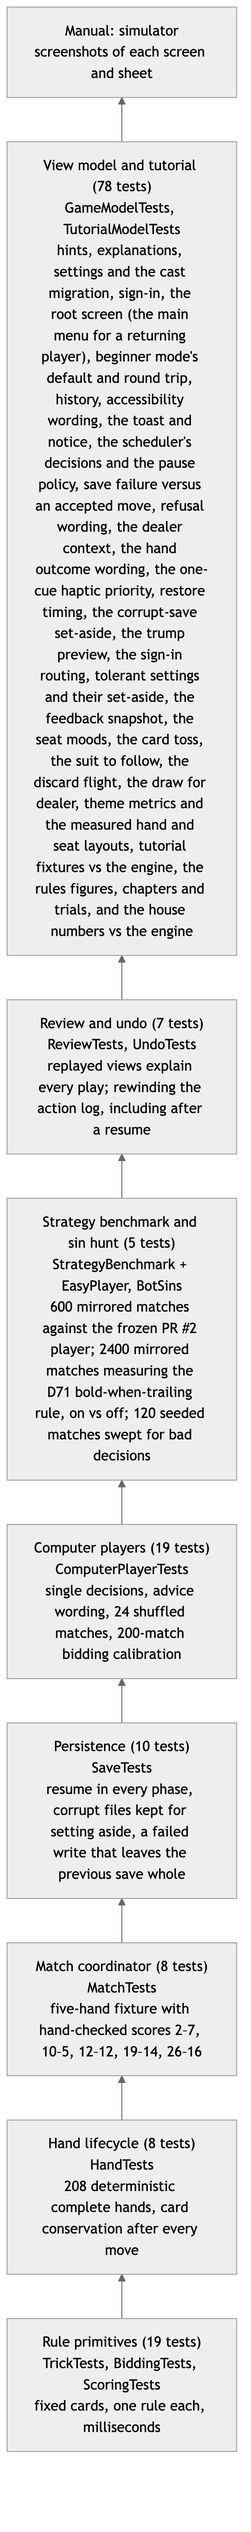
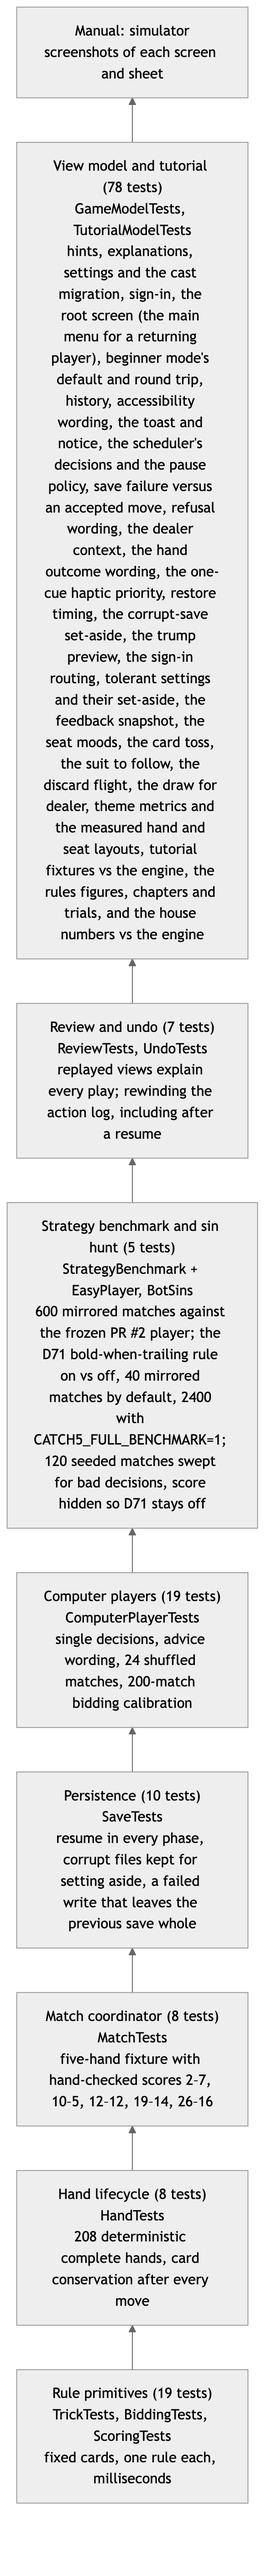
test(engine): hunt sins with score hidden, gate full bold benchmark
Claude-Session: https://claude.ai/code/session_01QN6TzWW52H8G3srazr3P6X

diff --git a/Tests/CatchFiveTests/StrategyBenchmark.swift b/Tests/CatchFiveTests/StrategyBenchmark.swift
@@ -1,3 +1,4 @@
+import Foundation
 import Testing
 @testable import CatchFive
 
@@ -87,11 +88,15 @@ struct TrailingContracts {
 
 /// D71 is a character rule, not a strength tune: this records what bidding one step bolder when down 10
 /// does against the same strategy without it, and holds nothing to a bar beyond the harness being whole.
+/// By default it plays a 40-match sample so `swift test` stays quick; `CATCH5_FULL_BENCHMARK=1` plays the
+/// 2400 matches D71 reports.
 @Test func boldWhenTrailingIsMeasuredAgainstTheSameStrategyWithoutIt() throws {
+    let full = ProcessInfo.processInfo.environment["CATCH5_FULL_BENCHMARK"] == "1"
+    let ranges = full ? [1..<601, 601..<1201] : [1..<21]
     let off: Strategy = { ComputerPlayer.decide(withoutScores($0)) }
     var lines = ["D71, rule on vs off, mirrored:"]
     var total = BenchmarkResult(), onTrailing = TrailingContracts(), offTrailing = TrailingContracts()
-    for seeds in [1..<601, 601..<1201] {
+    for seeds in ranges {
         var result = BenchmarkResult(), on = TrailingContracts(), without = TrailingContracts()
         for seed in seeds {
             let first = try playSeededMatch(seed: seed, teamZero: ComputerPlayer.decide, teamOne: off)
@@ -109,6 +114,6 @@ struct TrailingContracts {
     }
     lines.append("  all: \(total.matches) matches, on wins \(total.candidateWinRate), margin \(total.marginPerMatch); down 10+ made: on \(onTrailing.rate) of \(onTrailing.bid), off \(offTrailing.rate) of \(offTrailing.bid)")
     print(lines.joined(separator: "\n"))
-    #expect(total.matches == 2400)
+    #expect(total.matches == ranges.reduce(0) { $0 + 2 * $1.count })
     #expect(onTrailing.bid > 0 && offTrailing.bid > 0)
 }

diff --git a/Tests/CatchFiveTests/BotSins.swift b/Tests/CatchFiveTests/BotSins.swift
@@ -98,7 +98,9 @@ func huntBotSins(seeds: Range<Int>) throws -> [BotSin] {
                 continue
             }
             guard let seat = match.hand.nextSeat,
-                  let action = try ComputerPlayer.decide(PlayerView(match: match, seat: seat)) else { break }
+                  // Score hidden, so the D71 bold-when-trailing rule stays off and the seeded matches are the
+                  // ones these ceilings were set on: the hunt measures card play, which D71 did not change.
+                  let action = try ComputerPlayer.decide(withoutScores(PlayerView(match: match, seat: seat))) else { break }
 
             // Capture what the seat could see before the card leaves its hand.
             if case let .play(card) = action, let trump = match.hand.trump {
@@ -298,11 +300,9 @@ private func setSins(_ summary: HandSummary, seed: Int) -> [BotSin] {
     #expect(counters.count <= 19, "regression: \(counters.count) counters thrown away")
 
     // Tens and low trumps have their own floors, kept apart because they are worth different points.
-    // They rose from 12 and 17 when a team down 10 started bidding one step bolder (D71): the card
-    // play is unchanged, but the matches it plays are different ones, with more stretched contracts.
     let all = try huntBotSins(seeds: 1..<121)
-    #expect(all.filter { $0.kind == .surrenderedATen }.count <= 15)
-    #expect(all.filter { $0.kind == .surrenderedTheLow }.count <= 18)
+    #expect(all.filter { $0.kind == .surrenderedATen }.count <= 12)
+    #expect(all.filter { $0.kind == .surrenderedTheLow }.count <= 17)
 }
 
 @Test func theHouseBidLadderReadsAHandTheWayConnorsTableDoes() {

diff --git a/App/Explainer/docs/testing.md b/App/Explainer/docs/testing.md
@@ -44,14 +44,20 @@ flowchart BT
     L3["Match coordinator (8 tests)<br/>MatchTests<br/>five-hand fixture with hand-checked scores 2–7, 10–5, 12–12, 19–14, 26–16"]
     L4["Persistence (10 tests)<br/>SaveTests<br/>resume in every phase, corrupt files kept for setting aside, a failed write that leaves the previous save whole"]
     L5["Computer players (19 tests)<br/>ComputerPlayerTests<br/>single decisions, advice wording, 24 shuffled matches, 200-match bidding calibration"]
-    L5b["Strategy benchmark and sin hunt (5 tests)<br/>StrategyBenchmark + EasyPlayer, BotSins<br/>600 mirrored matches against the frozen PR #2 player; 2400 mirrored matches measuring the D71 bold-when-trailing rule, on vs off; 120 seeded matches swept for bad decisions"]
+    L5b["Strategy benchmark and sin hunt (5 tests)<br/>StrategyBenchmark + EasyPlayer, BotSins<br/>600 mirrored matches against the frozen PR #2 player; the D71 bold-when-trailing rule on vs off, 40 mirrored matches by default, 2400 with CATCH5_FULL_BENCHMARK=1; 120 seeded matches swept for bad decisions, score hidden so D71 stays off"]
     L5c["Review and undo (7 tests)<br/>ReviewTests, UndoTests<br/>replayed views explain every play; rewinding the action log, including after a resume"]
     L6["View model and tutorial (78 tests)<br/>GameModelTests, TutorialModelTests<br/>hints, explanations, settings and the cast migration, sign-in, the root screen (the main menu for a returning player), beginner mode's default and round trip, history, accessibility wording, the toast and notice, the scheduler's decisions and the pause policy, save failure versus an accepted move, refusal wording, the dealer context, the hand outcome wording, the one-cue haptic priority, restore timing, the corrupt-save set-aside, the trump preview, the sign-in routing, tolerant settings and their set-aside, the feedback snapshot, the seat moods, the card toss, the suit to follow, the discard flight, the draw for dealer, theme metrics and the measured hand and seat layouts, tutorial fixtures vs the engine, the rules figures, chapters and trials, and the house numbers vs the engine"]
     L7["Manual: simulator<br/>screenshots of each screen and sheet"]
     L1 --> L2 --> L3 --> L4 --> L5 --> L5b --> L5c --> L6 --> L7
 ```
 
-Total on 2026-09-27: 195 automated tests (83 engine, 112 view model), about 20 s; the D71 measurement (2400 mirrored matches) is most of that. The per-layer counts above are older and not recounted. Every layer above the first uses the real code beneath it; nothing is mocked. If `trickWinner` broke, the failure would show up in one small trick test *and* in the 208-hand simulation, and the small one tells you exactly what changed.
+Total on 2026-09-27: 195 automated tests (83 engine, 112 view model), about 3.5 s. The per-layer counts above are older and not recounted.
+
+The D71 measurement plays a 40-match sample by default. The full 2400 mirrored matches whose numbers D71 records take about 18 s more:
+
+```bash
+CATCH5_FULL_BENCHMARK=1 DEVELOPER_DIR=/Applications/Xcode.app/Contents/Developer swift test --filter boldWhenTrailing
+``` Every layer above the first uses the real code beneath it; nothing is mocked. If `trickWinner` broke, the failure would show up in one small trick test *and* in the 208-hand simulation, and the small one tells you exactly what changed.
 
 The cast, login and menu are covered at the model layer: `Settings` migration and round trip, `matchInProgress`, `signIn` and `seatSummary`; the screens themselves are checked by the simulator screenshot pass.
 

diff --git a/docs/testing.md b/docs/testing.md
@@ -44,14 +44,20 @@ flowchart BT
     L3["Match coordinator (8 tests)<br/>MatchTests<br/>five-hand fixture with hand-checked scores 2–7, 10–5, 12–12, 19–14, 26–16"]
     L4["Persistence (10 tests)<br/>SaveTests<br/>resume in every phase, corrupt files kept for setting aside, a failed write that leaves the previous save whole"]
     L5["Computer players (19 tests)<br/>ComputerPlayerTests<br/>single decisions, advice wording, 24 shuffled matches, 200-match bidding calibration"]
-    L5b["Strategy benchmark and sin hunt (5 tests)<br/>StrategyBenchmark + EasyPlayer, BotSins<br/>600 mirrored matches against the frozen PR #2 player; 2400 mirrored matches measuring the D71 bold-when-trailing rule, on vs off; 120 seeded matches swept for bad decisions"]
+    L5b["Strategy benchmark and sin hunt (5 tests)<br/>StrategyBenchmark + EasyPlayer, BotSins<br/>600 mirrored matches against the frozen PR #2 player; the D71 bold-when-trailing rule on vs off, 40 mirrored matches by default, 2400 with CATCH5_FULL_BENCHMARK=1; 120 seeded matches swept for bad decisions, score hidden so D71 stays off"]
     L5c["Review and undo (7 tests)<br/>ReviewTests, UndoTests<br/>replayed views explain every play; rewinding the action log, including after a resume"]
     L6["View model and tutorial (78 tests)<br/>GameModelTests, TutorialModelTests<br/>hints, explanations, settings and the cast migration, sign-in, the root screen (the main menu for a returning player), beginner mode's default and round trip, history, accessibility wording, the toast and notice, the scheduler's decisions and the pause policy, save failure versus an accepted move, refusal wording, the dealer context, the hand outcome wording, the one-cue haptic priority, restore timing, the corrupt-save set-aside, the trump preview, the sign-in routing, tolerant settings and their set-aside, the feedback snapshot, the seat moods, the card toss, the suit to follow, the discard flight, the draw for dealer, theme metrics and the measured hand and seat layouts, tutorial fixtures vs the engine, the rules figures, chapters and trials, and the house numbers vs the engine"]
     L7["Manual: simulator<br/>screenshots of each screen and sheet"]
     L1 --> L2 --> L3 --> L4 --> L5 --> L5b --> L5c --> L6 --> L7
 ```
 
-Total on 2026-09-27: 195 automated tests (83 engine, 112 view model), about 20 s; the D71 measurement (2400 mirrored matches) is most of that. The per-layer counts above are older and not recounted. Every layer above the first uses the real code beneath it; nothing is mocked. If `trickWinner` broke, the failure would show up in one small trick test *and* in the 208-hand simulation, and the small one tells you exactly what changed.
+Total on 2026-09-27: 195 automated tests (83 engine, 112 view model), about 3.5 s. The per-layer counts above are older and not recounted.
+
+The D71 measurement plays a 40-match sample by default. The full 2400 mirrored matches whose numbers D71 records take about 18 s more:
+
+```bash
+CATCH5_FULL_BENCHMARK=1 DEVELOPER_DIR=/Applications/Xcode.app/Contents/Developer swift test --filter boldWhenTrailing
+``` Every layer above the first uses the real code beneath it; nothing is mocked. If `trickWinner` broke, the failure would show up in one small trick test *and* in the 208-hand simulation, and the small one tells you exactly what changed.
 
 The cast, login and menu are covered at the model layer: `Settings` migration and round trip, `matchInProgress`, `signIn` and `seatSummary`; the screens themselves are checked by the simulator screenshot pass.
 

diff --git a/App/Explainer/docs/decisions.md b/App/Explainer/docs/decisions.md
@@ -600,5 +600,5 @@ These are floors, not ceilings: bidding higher to keep the auction away from the
 
 **Why:** It is a character rule, the way his family plays, not a strength tune: the computers should feel like that table. The score is written down in front of everyone, so passing it across the `PlayerView` boundary keeps D6.
 
-**Measured** (`boldWhenTrailingIsMeasuredAgainstTheSameStrategyWithoutIt`: Standard with the rule against Standard with the score hidden, every seed played twice with the teams swapped). Seeds 1..<601: win rate 0.503, margin +0.06 per match; seeds 601..<1201: 0.496, margin −0.14. All 2400 matches: win rate 0.499, margin −0.04, which is no measurable change in strength. Contracts bid by a team down 10 or more were made 682 of 921 times with the rule (0.740) against 693 of 868 without (0.798): the rule takes more contracts from behind and makes a smaller share of them. The sin-hunt ceilings for surrendered tens and low trumps rose from 12 and 17 to 15 and 18 (the counts now found) because the seeded matches now play differently; card play itself did not change. The threshold and the step are Connor's and were not tuned to these numbers.
+**Measured** (`boldWhenTrailingIsMeasuredAgainstTheSameStrategyWithoutIt` with `CATCH5_FULL_BENCHMARK=1`: Standard with the rule against Standard with the score hidden, every seed played twice with the teams swapped). Seeds 1..<601: win rate 0.503, margin +0.06 per match; seeds 601..<1201: 0.496, margin −0.14. All 2400 matches: win rate 0.499, margin −0.04, which is no measurable change in strength. Contracts bid by a team down 10 or more were made 682 of 921 times with the rule (0.740) against 693 of 868 without (0.798): the rule takes more contracts from behind and makes a smaller share of them. The sin hunt measures card play, which D71 does not change, so it plays with the score hidden: its seeded matches stay the ones its ceilings were set on. The full measurement runs with `CATCH5_FULL_BENCHMARK=1`; by default a 40-match sample keeps `swift test` quick. The threshold and the step are Connor's and were not tuned to these numbers.
 

diff --git a/docs/decisions.md b/docs/decisions.md
@@ -600,5 +600,5 @@ These are floors, not ceilings: bidding higher to keep the auction away from the
 
 **Why:** It is a character rule, the way his family plays, not a strength tune: the computers should feel like that table. The score is written down in front of everyone, so passing it across the `PlayerView` boundary keeps D6.
 
-**Measured** (`boldWhenTrailingIsMeasuredAgainstTheSameStrategyWithoutIt`: Standard with the rule against Standard with the score hidden, every seed played twice with the teams swapped). Seeds 1..<601: win rate 0.503, margin +0.06 per match; seeds 601..<1201: 0.496, margin −0.14. All 2400 matches: win rate 0.499, margin −0.04, which is no measurable change in strength. Contracts bid by a team down 10 or more were made 682 of 921 times with the rule (0.740) against 693 of 868 without (0.798): the rule takes more contracts from behind and makes a smaller share of them. The sin-hunt ceilings for surrendered tens and low trumps rose from 12 and 17 to 15 and 18 (the counts now found) because the seeded matches now play differently; card play itself did not change. The threshold and the step are Connor's and were not tuned to these numbers.
+**Measured** (`boldWhenTrailingIsMeasuredAgainstTheSameStrategyWithoutIt` with `CATCH5_FULL_BENCHMARK=1`: Standard with the rule against Standard with the score hidden, every seed played twice with the teams swapped). Seeds 1..<601: win rate 0.503, margin +0.06 per match; seeds 601..<1201: 0.496, margin −0.14. All 2400 matches: win rate 0.499, margin −0.04, which is no measurable change in strength. Contracts bid by a team down 10 or more were made 682 of 921 times with the rule (0.740) against 693 of 868 without (0.798): the rule takes more contracts from behind and makes a smaller share of them. The sin hunt measures card play, which D71 does not change, so it plays with the score hidden: its seeded matches stay the ones its ceilings were set on. The full measurement runs with `CATCH5_FULL_BENCHMARK=1`; by default a 40-match sample keeps `swift test` quick. The threshold and the step are Connor's and were not tuned to these numbers.
 
